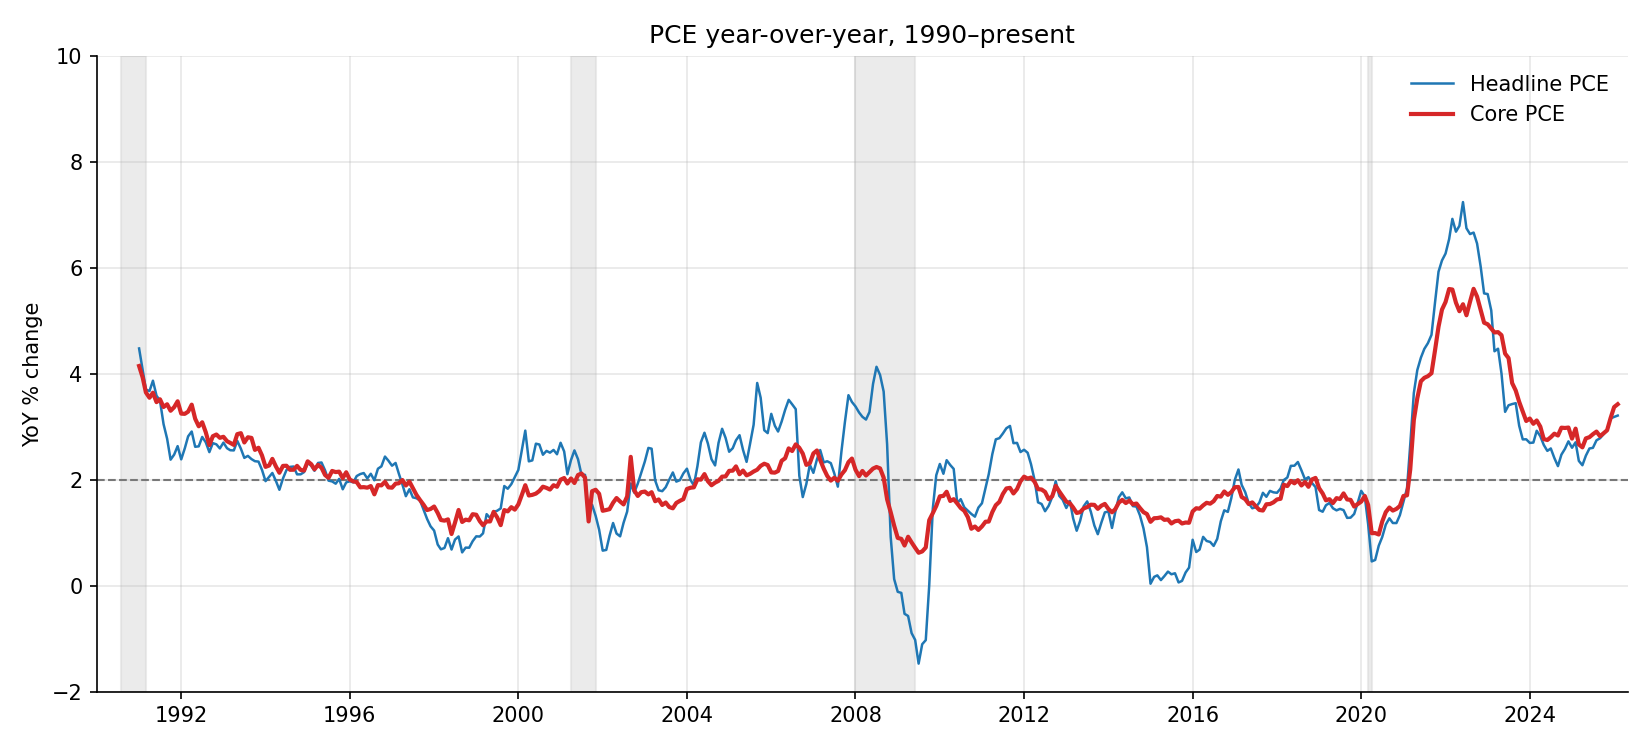
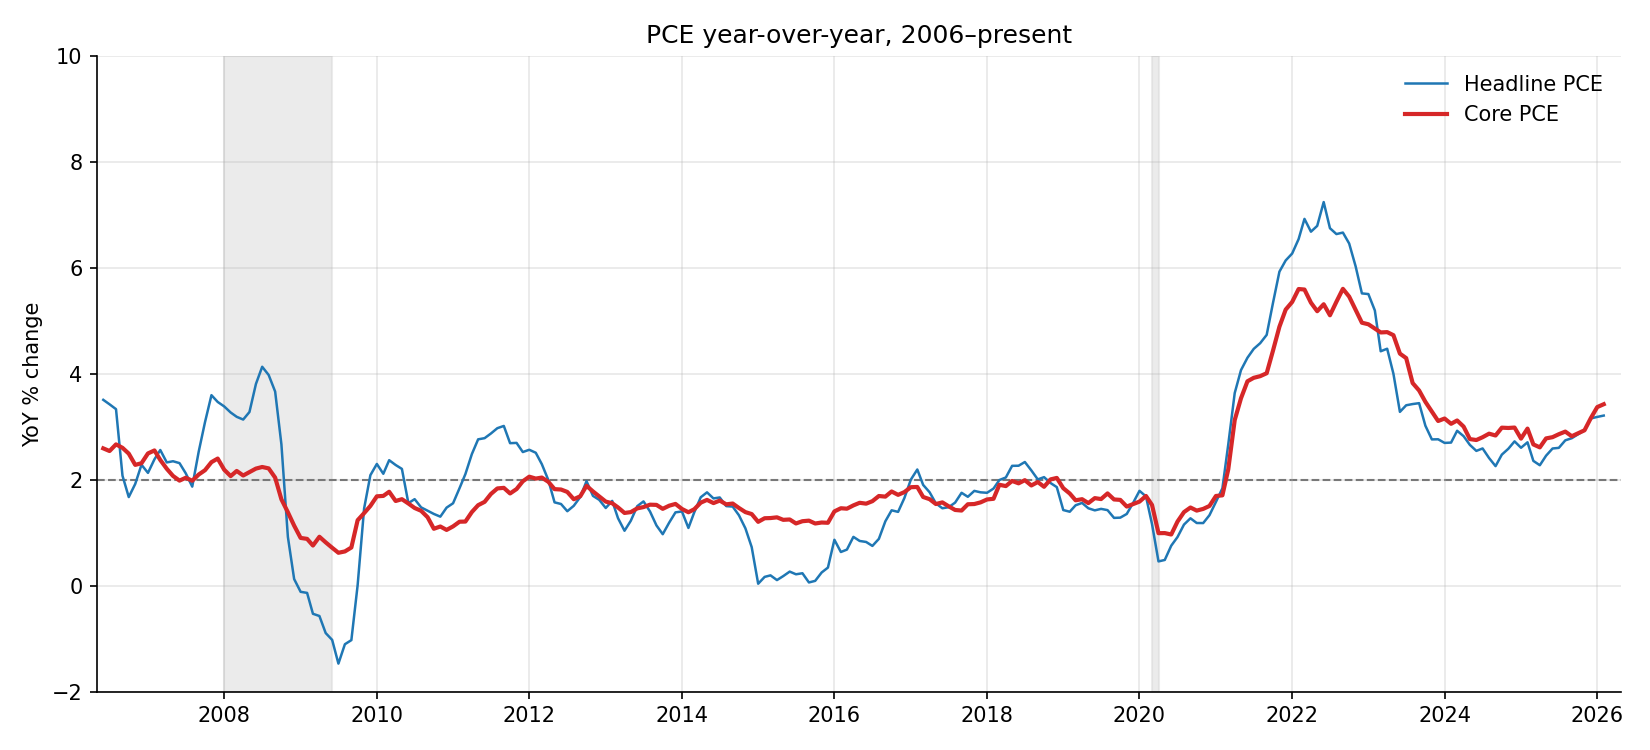
Switch inflation_pull.py to a rolling 20-year chart window (#9)
Match yield_curve_pull.py's date convention: chart_start = today - 20y
(currently ~2006-06). Pull a 13-month buffer of prior history so YoY is
defined at the chart's left edge, then trim the dataframe to chart_start
before writing xlsx and plotting. Chart titles now derive from chart_start.year
instead of being hardcoded to 1990.

Same series, same styling, same y-range. Only the visible window changed.

diff --git a/macro/inflation_pull.py b/macro/inflation_pull.py
@@ -1,4 +1,4 @@
-from datetime import datetime
+from datetime import datetime, timedelta
 from pathlib import Path
 import sys
 
@@ -16,8 +16,11 @@ from shared.fred_helpers import (
 
 fred = get_fred_client()
 
-start = datetime(1990, 1, 1)
 end = datetime.today()
+chart_start = end - timedelta(days=365 * 20)
+# Pull ~13 months of history before chart_start so YoY is defined at the chart's
+# left edge rather than starting blank for the first year.
+data_start = chart_start - timedelta(days=400)
 
 series = {
     "CPI_headline": "CPIAUCSL",
@@ -26,7 +29,7 @@ series = {
     "PCE_core": "PCEPILFE",
 }
 
-df = pull_series(fred, series, start, end)
+df = pull_series(fred, series, data_start, end)
 df = df.dropna(subset=list(series.keys())).reset_index(drop=True)
 
 # Monthly indices: pct_change(12) gives YoY %.
@@ -37,6 +40,8 @@ for name in series:
     yoy_cols.append(yoy_col)
 
 df = df.dropna(subset=yoy_cols).reset_index(drop=True)
+# Trim to the chart window now that YoY is computed; xlsx and charts share this range.
+df = df[df["Date"] >= pd.Timestamp(chart_start)].reset_index(drop=True)
 
 summary = pd.DataFrame({
     "min": df[yoy_cols].min(),
@@ -51,7 +56,7 @@ with pd.ExcelWriter(xlsx_path, engine="openpyxl") as writer:
     df.to_excel(writer, sheet_name="Data", index=False)
     summary.to_excel(writer, sheet_name="Summary")
 
-recessions = get_recession_periods(fred, start, end)
+recessions = get_recession_periods(fred, chart_start, end)
 
 # Headline vs. core distinguished by color + weight, both solid.
 HEADLINE_COLOR = "#1f77b4"  # blue, lighter weight
@@ -59,7 +64,8 @@ CORE_COLOR = "#d62728"      # red, heavier weight — core is the cleaner signal
 HEADLINE_LW = 1.2
 CORE_LW = 2.0
 YLIM = (-2, 10)
-XLIM = (pd.Timestamp(start), pd.Timestamp(end))
+XLIM = (pd.Timestamp(chart_start), pd.Timestamp(end))
+TITLE_RANGE = f"{chart_start.year}–present"
 
 fig, ax = plt.subplots(figsize=(11, 5))
 ax.plot(df["Date"], df["CPI_headline_yoy"], color=HEADLINE_COLOR,
@@ -69,7 +75,7 @@ ax.plot(df["Date"], df["CPI_core_yoy"], color=CORE_COLOR,
 ax.set_xlim(*XLIM)
 style_macro_chart(
     ax,
-    title="CPI year-over-year, 1990–present",
+    title=f"CPI year-over-year, {TITLE_RANGE}",
     ylabel="YoY % change",
     ylim=YLIM,
     recessions=recessions,
@@ -88,7 +94,7 @@ ax.plot(df["Date"], df["PCE_core_yoy"], color=CORE_COLOR,
 ax.set_xlim(*XLIM)
 style_macro_chart(
     ax,
-    title="PCE year-over-year, 1990–present",
+    title=f"PCE year-over-year, {TITLE_RANGE}",
     ylabel="YoY % change",
     ylim=YLIM,
     recessions=recessions,
